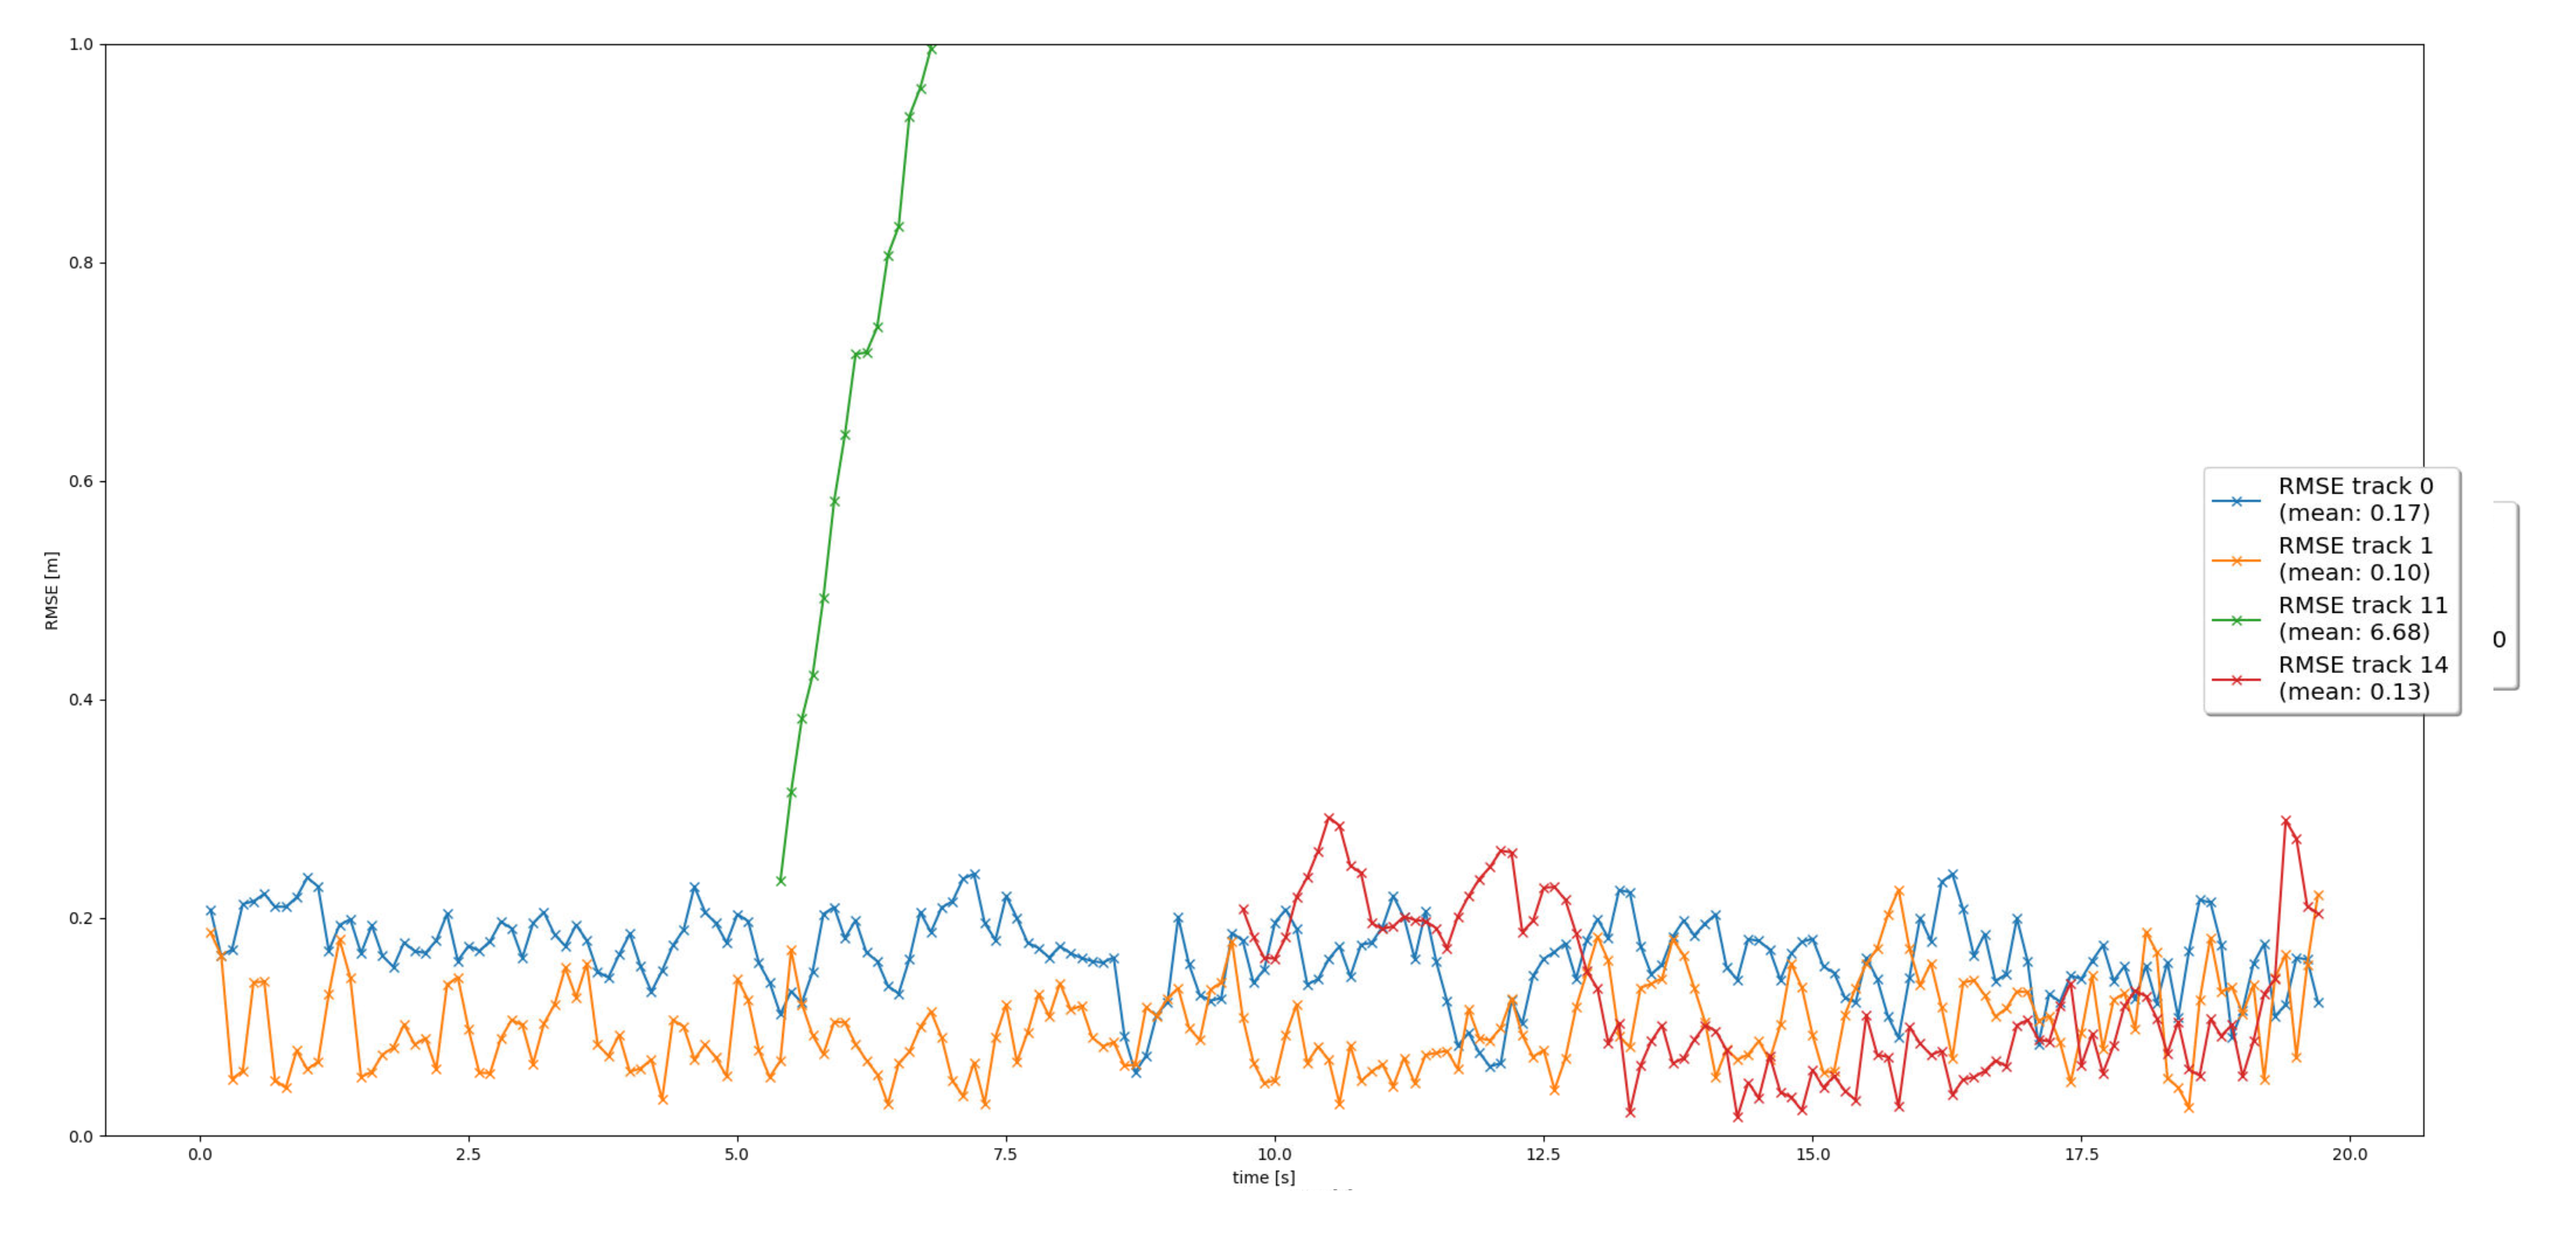
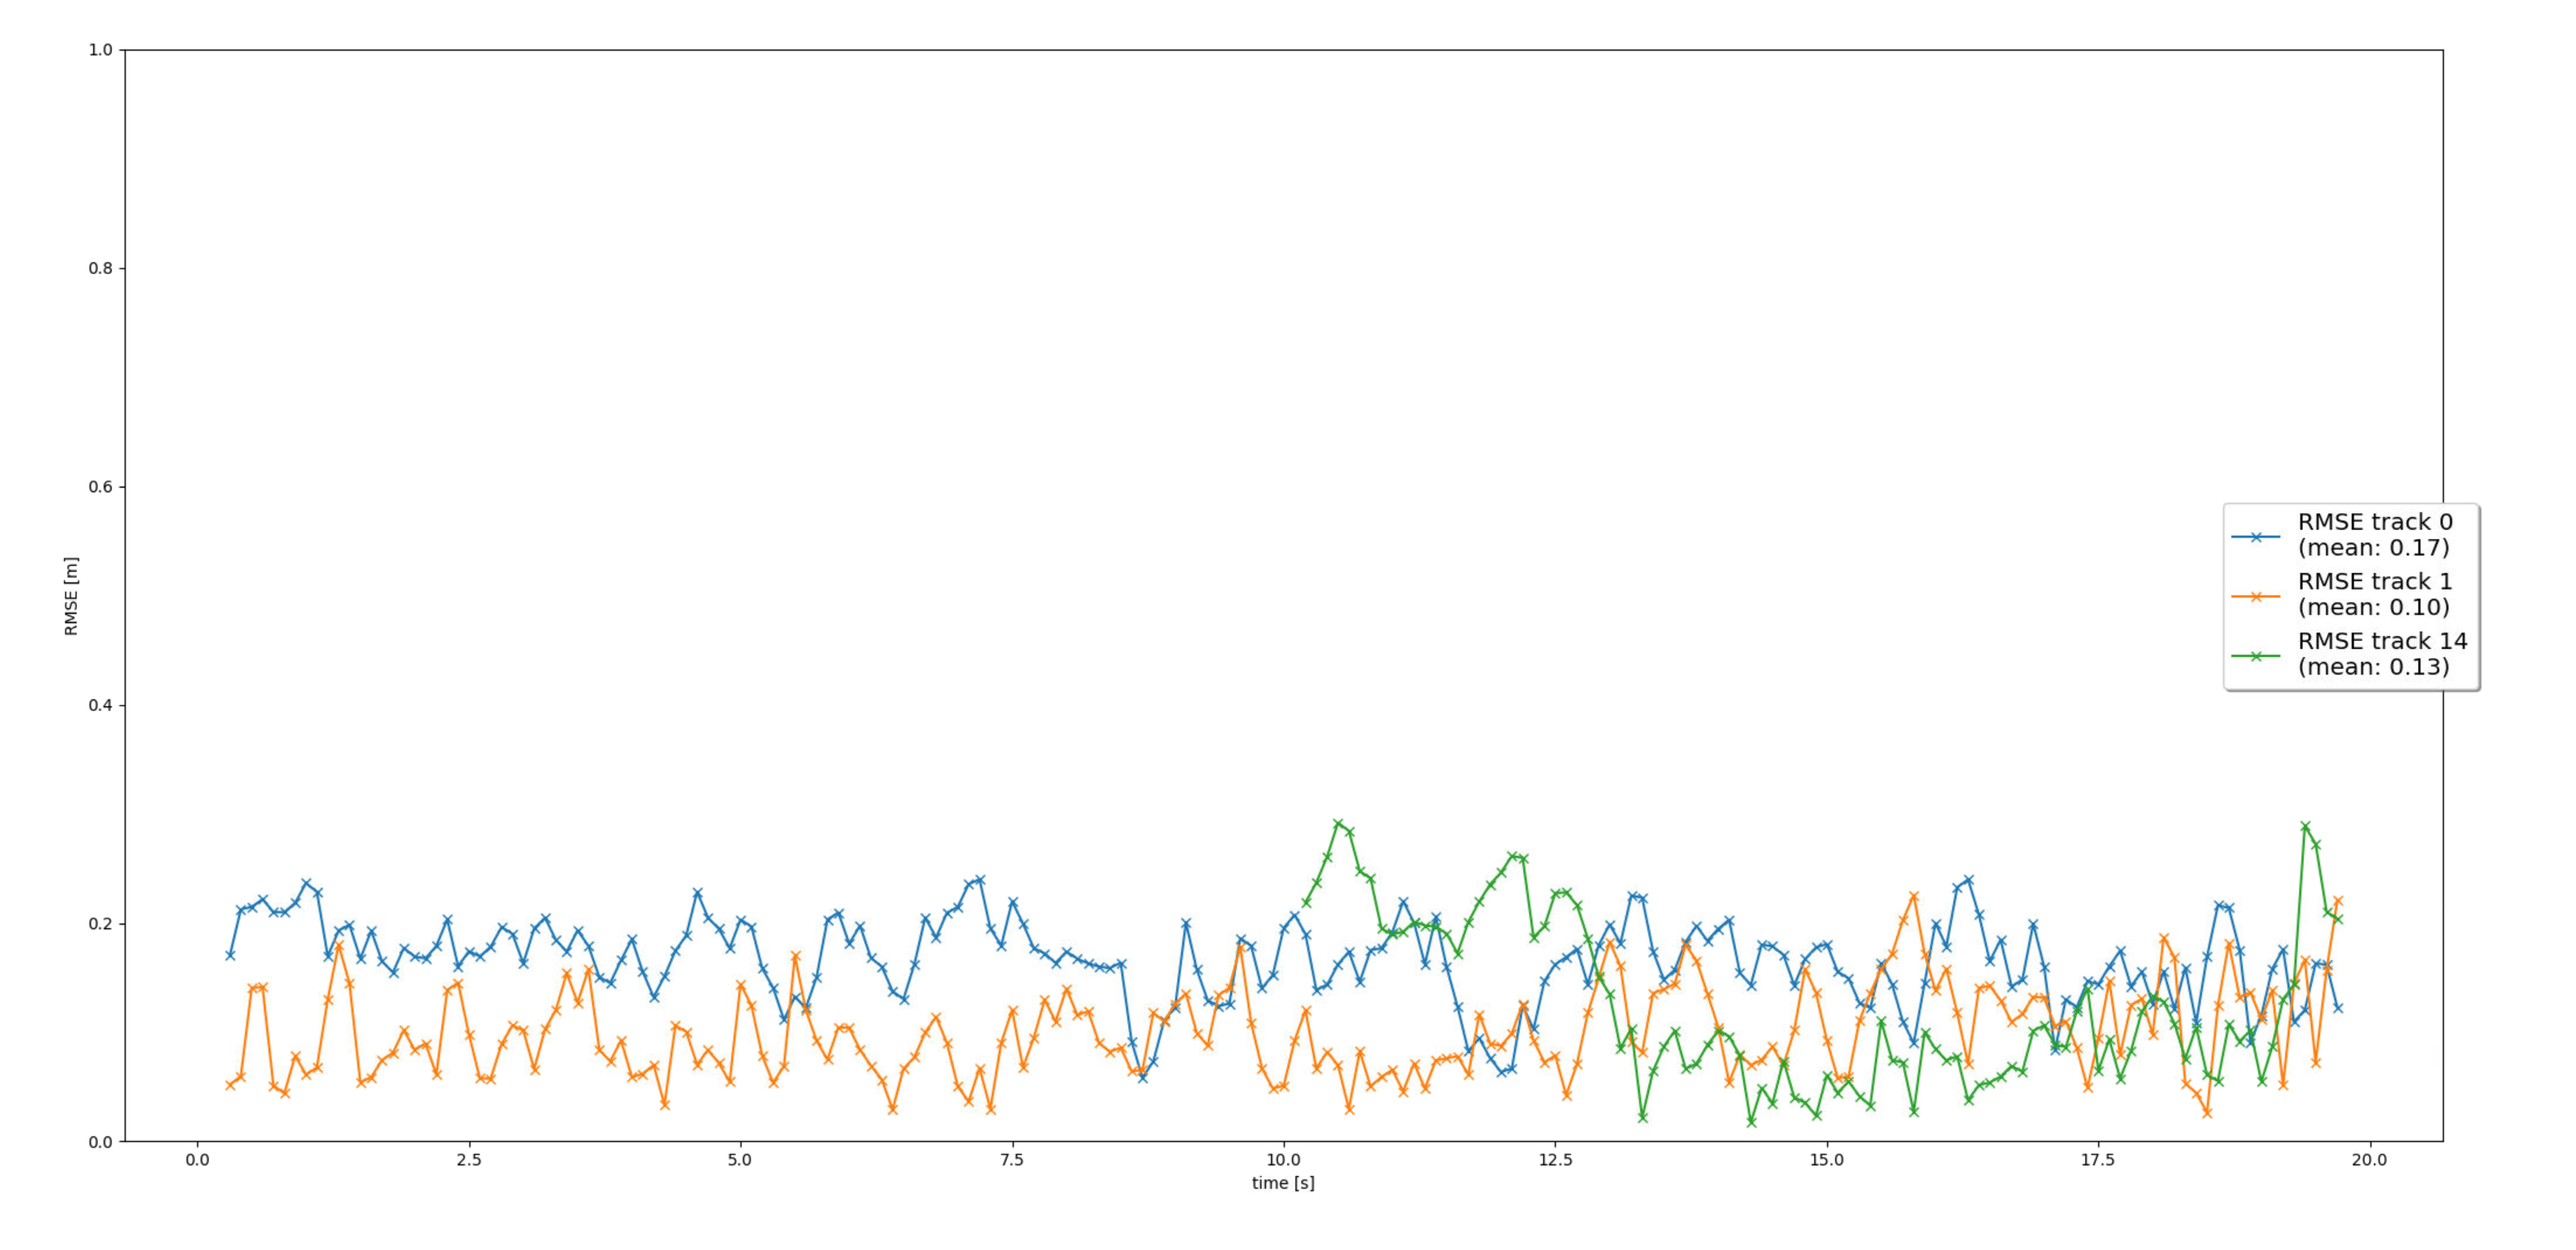
Tracks are accurate

diff --git a/student/trackmanagement.py b/student/trackmanagement.py
@@ -1,3 +1,4 @@
+
 # ---------------------------------------------------------------------
 # Project "Track 3D-Objects Over Time"
 # Copyright (C) 2020, Dr. Antje Muntzinger / Dr. Andreas Haja.
@@ -22,6 +23,8 @@ SCRIPT_DIR = os.path.dirname(os.path.realpath(os.path.join(os.getcwd(), os.path.
 sys.path.append(os.path.normpath(os.path.join(SCRIPT_DIR, PACKAGE_PARENT)))
 import misc.params as params 
 
+INCREMENT=.5/params.window
+
 class Track:
     '''Track class with state, covariance, id, score'''
     def __init__(self, meas, id):
@@ -34,9 +37,8 @@ class Track:
         # unassigned measurement transformed from sensor to vehicle coordinates
         # - initialize track state and track score with appropriate values
         ############
-        meas.sensor.sens_to_veh
 
-         # Initialize X
+        # Initialize X
         Z = np.matrix([[meas.z[0], meas.z[1], meas.z[2], 1]]).T
         X = meas.sensor.sens_to_veh.dot(Z)
         self.x = np.matrix([ [X[0]],
@@ -72,7 +74,7 @@ class Track:
         #                 [0.0e+00, 0.0e+00, 0.0e+00, 0.0e+00, 2.5e+03, 0.0e+00],
         #                 [0.0e+00, 0.0e+00, 0.0e+00, 0.0e+00, 0.0e+00, 2.5e+01]])
         self.state = 'initialized'
-        self.score = 1.0/params.window
+        self.score = INCREMENT
         
         ############
         # END student code
@@ -123,7 +125,6 @@ class Trackmanagement:
         # - delete tracks if the score is too low or P is too big (check params.py for parameters that might be helpful, but
         # feel free to define your own parameters)
         ############
-        increment = 1.0/params.window
         
         # decrease score for unassigned tracks
         for i in unassigned_tracks:
@@ -132,7 +133,7 @@ class Trackmanagement:
             if meas_list: # if not empty
                 if meas_list[0].sensor.in_fov(track.x):
                     # your code goes here
-                    self.track_list[i].score -= increment
+                    self.track_list[i].score -= INCREMENT
 
         # delete old tracks  
         tracks_to_delete = []
@@ -140,14 +141,16 @@ class Trackmanagement:
             track = self.track_list[i]
             # Check score
             if (track.state == 'confirmed' and track.score < params.delete_threshold):
+                print("Low C")
                 tracks_to_delete.append(track)
                 continue
-            elif (track.score < increment):
+            elif (track.score < INCREMENT):
+                print("Low")
                 tracks_to_delete.append(track)
                 continue
             # Check P
             if (track.P[0,0] > params.max_P or track.P[1,1] > params.max_P):
-                print("Caser")
+                print("Low P")
                 tracks_to_delete.append(track)
         
         for track in tracks_to_delete:
@@ -180,7 +183,7 @@ class Trackmanagement:
         # - increase track score
         # - set track state to 'tentative' or 'confirmed'
         ############
-        track.score += 1.0/params.window
+        track.score += INCREMENT
         track.score = min(1.0, track.score)
 
         if track.score >= params.confirmed_threshold:
